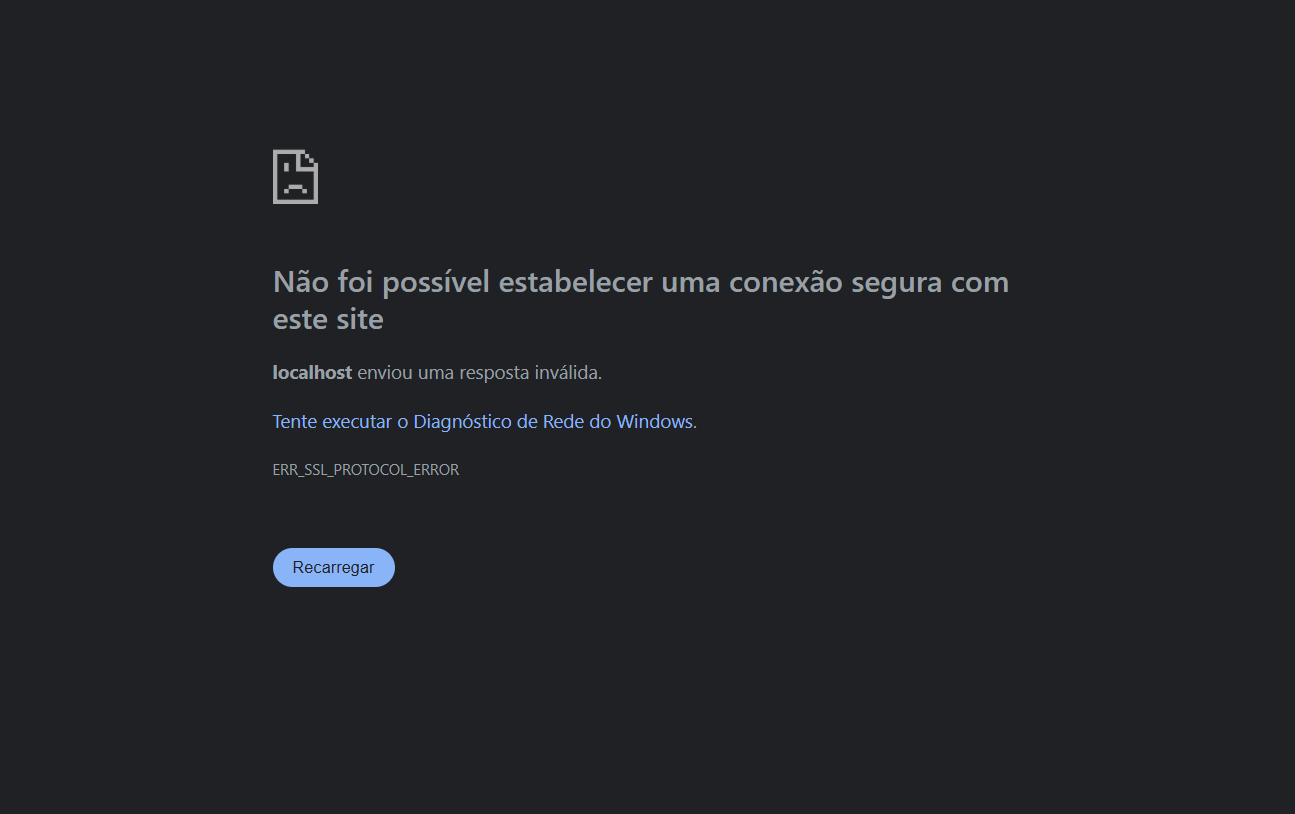
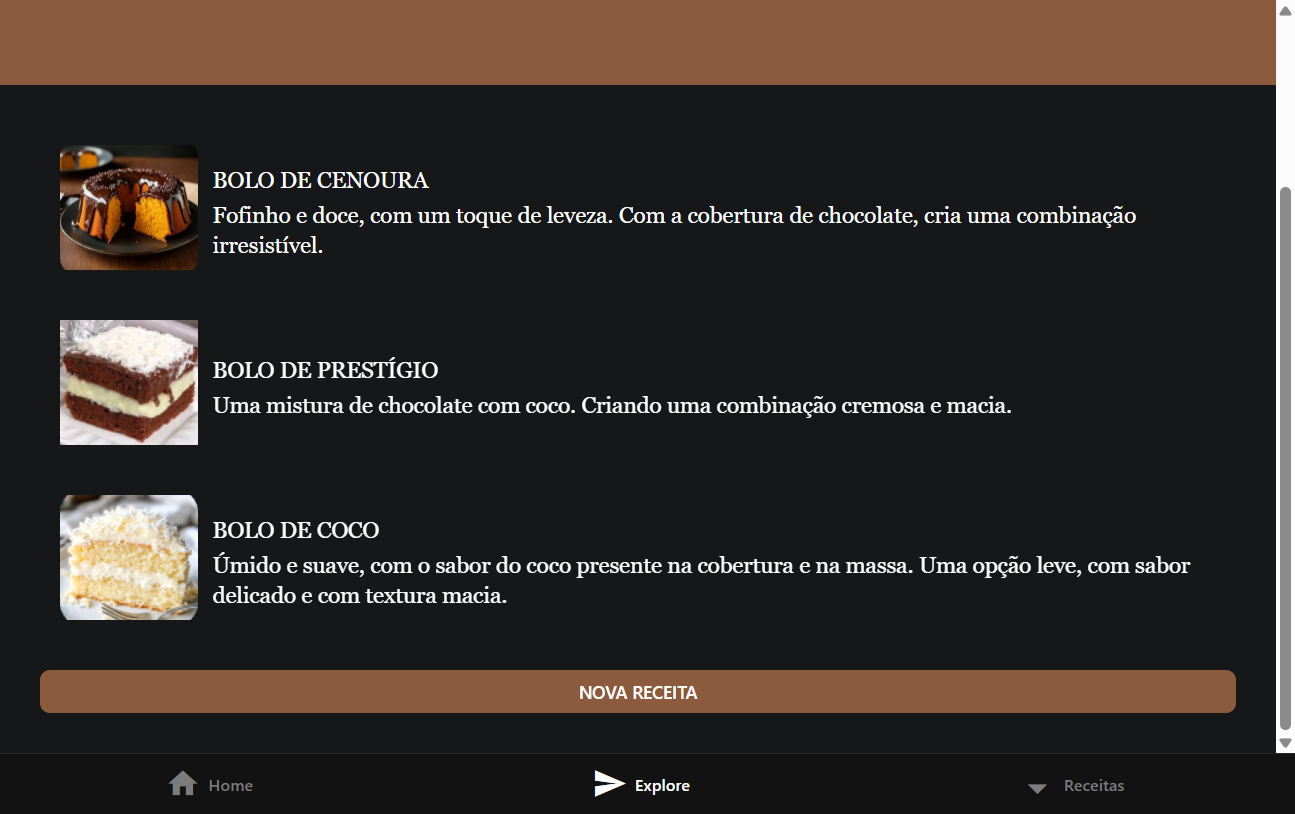
finalizado os testes

diff --git a/ds/testedeconteudo.py b/ds/testedeconteudo.py
@@ -6,73 +6,48 @@ from selenium.webdriver.support import expected_conditions as EC
 from webdriver_manager.chrome import ChromeDriverManager
 import time
 
-# --- CONFIGURAÇÃO DO TESTE ---
-# Substitua pelo URL real do seu site onde a imagem está rodando
-URL_DO_SITE = "http://localhost:8081/explore" 
-NOME_DO_BOTAO_ESPERADO = "NOVA RECEITA"
-TEXTO_BOTAO = "NOVA RECEITA" # Use MAIÚSCULAS como está na sua imagem
-
-# 1. Configuração do Navegador (Chrome)
-# O webdriver-manager baixa e gerencia o driver automaticamente
-service = Service(ChromeDriverManager().install())
-driver = webdriver.Chrome(service=service)
-
-from selenium import webdriver
-from selenium.webdriver.chrome.service import Service
-from selenium.webdriver.common.by import By
-from selenium.webdriver.support.ui import WebDriverWait
-from selenium.webdriver.support import expected_conditions as EC
-from selenium.common.exceptions import StaleElementReferenceException, TimeoutException
-from webdriver_manager.chrome import ChromeDriverManager
-import time
-
-# --- CONFIGURAÇÕES ---
+# --- CONFIGURAÇÃO ---
+# URL da sua página inicial de bolos
 URL_INICIAL = "http://localhost:8081/explore" 
-URL_DESTINO_PARCIAL = "Receitas.html" 
-TEXTO_BOTAO = "NOVA RECEITA"
+# URL exato da página que deve abrir após o clique
+URL_DESTINO_ESPERADO = "https://receitas.html"
 
+# Setup do driver
 service = Service(ChromeDriverManager().install())
 driver = webdriver.Chrome(service=service)
 
 try:
-    print(f"Abrindo o site: {URL_INICIAL}")
+    # 1. Abre a página inicial
     driver.get(URL_INICIAL)
-    driver.maximize_window()
-    
-    time.sleep(2) 
+    print(f"Página inicial carregada: {URL_INICIAL}")
     wait = WebDriverWait(driver, 10)
 
-    print(f"Buscando o botão '{TEXTO_BOTAO}'...")
-    # XPath focado no texto "Nova receita"
-    xpath_botao = f"//*[contains(text(), '{TEXTO_BOTAO}')]"
+    # 2. Encontra o botão e clica
+    print("Encontrando o botão 'NOVA RECEITA'...")
+    xpath_botao = "//*[contains(text(), 'NOVA RECEITA')]"
+    botao = wait.until(EC.element_to_be_clickable((By.XPATH, xpath_botao)))
     
-    # Localiza o elemento
-    botao = wait.until(EC.presence_of_element_located((By.XPATH, xpath_botao)))
+    print("Clicando no botão...")
+    botao.click()
 
-    # --- A SOLUÇÃO PARA O ERRO DE INTERCEPTAÇÃO ---
-    print("Tentando clicar via JavaScript para evitar sobreposição...")
-    driver.execute_script("arguments[0].click();", botao)
-    # ----------------------------------------------
-
-    print("Comando de clique enviado! Verificando navegação...")
-
-    try:
-        # Espera a URL conter o nome do arquivo
-        wait.until(EC.url_contains(URL_DESTINO_PARCIAL))
-        
-        print(f"✅ SUCESSO: Chegamos em {driver.current_url}")
-        driver.save_screenshot("sucesso_navegacao.png") 
-        print("Screenshot do ACERTO salva!")
-        
-    except TimeoutException:
-        print(f"❌ ERRO DE NAVEGAÇÃO: Clique foi feito, mas a URL é {driver.current_url}")
-        driver.save_screenshot("erro_url_errada.png")
+    # --- O PONTO CHAVE DO TESTE ---
+    
+    # 3. Verifica se a navegação ocorreu com sucesso
+    # Nós usamos uma 'Espera Explícita' para aguardar até que o driver detecte que o URL mudou.
+    print(f"Aguardando a navegação para {URL_DESTINO_ESPERADO}...")
+    
+    # Esta linha faz o Python 'congelar' e tentar repetidamente até que o URL coincida.
+    wait.until(EC.url_to_be(URL_DESTINO_ESPERADO))
+    
+    # Se a linha acima passar sem erro, o URL é o correto.
+    print("✅ SUCESSO: O URL foi atualizado corretamente para a nova página.")
 
 except Exception as e:
-    print(f"❌ ERRO NO TESTE: {e}")
-    driver.save_screenshot("erro_geral.png")
+    # Captura falhas de timeout ou erros ao clicar
+    print(f"❌ FALHA NO TESTE: A navegação falhou ou não ocorreu dentro do tempo esperado.")
+    print(f"Erro: {e}")
+    driver.save_screenshot("erro_no_botao.png")
 
 finally:
-    print("Encerrando em 3 segundos...")
-    time.sleep(3)
+    # Fecha o navegador
     driver.quit()
